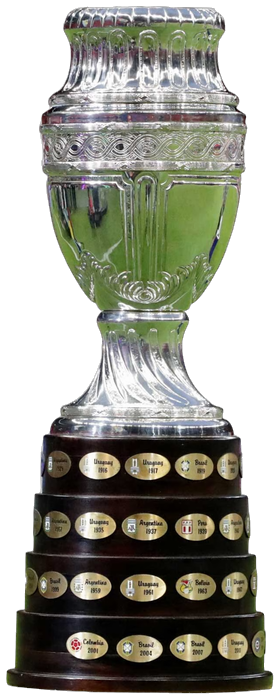
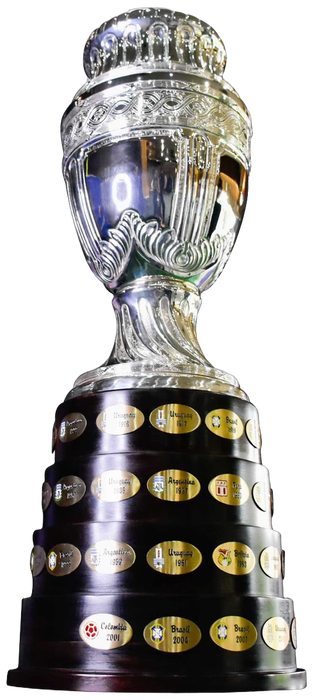
fix Copa America trophy image cache and asset.

diff --git a/index.html b/index.html
@@ -15,25 +15,25 @@
   <link rel="preconnect" href="https://fonts.googleapis.com" />
   <link rel="preconnect" href="https://fonts.gstatic.com" crossorigin />
   <link href="https://fonts.googleapis.com/css2?family=Barlow+Condensed:wght@600;700;800&family=DM+Sans:ital,opsz,wght@0,9..40,400;0,9..40,500;0,9..40,600;0,9..40,700;1,9..40,400&display=swap" rel="stylesheet" />
-  <link rel="stylesheet" href="css/style.css?v=dev-sandbox-1" />
+  <link rel="stylesheet" href="css/style.css?v=trophies-ca-2" />
 </head>
 <body>
   <div id="app"></div>
   <script src="js/world.js"></script>
   <script src="js/more_clubs.js"></script>
-  <script src="js/data.js?v=dev-sandbox-1"></script>
+  <script src="js/data.js?v=trophies-ca-2"></script>
   <script src="js/rng.js"></script>
-  <script src="js/engine.js?v=dev-sandbox-1"></script>
-  <script src="js/sim.js?v=dev-sandbox-1"></script>
-  <script src="js/career.js?v=dev-sandbox-1"></script>
-  <script src="js/card.js?v=dev-sandbox-1"></script>
-  <script src="js/ui.js?v=dev-sandbox-1"></script>
-  <script src="js/dev.js?v=dev-sandbox-1"></script>
-  <script src="js/app.js?v=dev-sandbox-1"></script>
+  <script src="js/engine.js?v=trophies-ca-2"></script>
+  <script src="js/sim.js?v=trophies-ca-2"></script>
+  <script src="js/career.js?v=trophies-ca-2"></script>
+  <script src="js/card.js?v=trophies-ca-2"></script>
+  <script src="js/ui.js?v=trophies-ca-2"></script>
+  <script src="js/dev.js?v=trophies-ca-2"></script>
+  <script src="js/app.js?v=trophies-ca-2"></script>
   <script>
     if ("serviceWorker" in navigator) {
       window.addEventListener("load", function () {
-        navigator.serviceWorker.register("./sw.js").catch(function () {});
+        navigator.serviceWorker.register("./sw.js?v=trophies-ca-2").catch(function () {});
       });
     }
   </script>

diff --git a/js/data.js b/js/data.js
@@ -102,7 +102,7 @@ var TROPHIES = {
   ucl: { name: "Champions League", img: "img/trophies/ucl.png", kind: "continental", w: 12 },
   clubworldcup: { name: "Mundial de Clubes", img: "img/trophies/clubworldcup.png", kind: "continental", w: 8 },
   worldcup: { name: "Copa do Mundo", img: "img/trophies/worldcup.png", kind: "nt", w: 16 },
-  copaamerica: { name: "Copa América", img: "img/trophies/copaamerica.png", kind: "nt", w: 9 },
+  copaamerica: { name: "Copa América", img: "img/trophies/copaamerica.png?v=ca2", kind: "nt", w: 9 },
   euro: { name: "Eurocopa", img: "img/trophies/euro.png", kind: "nt", w: 9 },
   youth: { name: "Título Sub-20", img: "img/trophies/youth.png", kind: "nt", w: 2 },
   balon: { name: "Bola de Ouro", img: "img/trophies/balon.png", kind: "indiv", w: 14 },

diff --git a/sw.js b/sw.js
@@ -1,5 +1,5 @@
 /* Lenda minimal service worker — cache app shell for offline-ish LAN/localhost use */
-const CACHE = "lenda-shell-v4-dev-sandbox-1";
+const CACHE = "lenda-shell-v5-trophies-ca-2";
 const SHELL = [
   "./",
   "./index.html",

diff --git a/tools/TROPHY_SOURCES.md b/tools/TROPHY_SOURCES.md
@@ -37,7 +37,7 @@ Corrected remapping: older SportsDB IDs mixed up FA Cup / Libertadores / etc. Ea
 | `ucl` | TheSportsDB (verified league name) |
 | `clubworldcup` | Wikimedia Commons — CWC Trophy 2025.png |
 | `worldcup` | TheSportsDB (verified league name) |
-| `copaamerica` | High-res Copa América trophy cutout → transparent PNG (alpha); sourced from pngdownload.io studio cutout of the official cup (plaques / COPA AMERICA engraving), rembg + crop to match other trophies |
+| `copaamerica` | pngdownload.io studio cutout (Oct 2025 AVIF → PNG) + rembg alpha; cache-bust `?v=ca2` — replaces prior stadium-reflection cutout that still looked like the museum photo |
 | `euro` | Wikimedia Commons — Henri Delaunay / Euro trophy |
 | `youth` | Stylized distinct generic cup (no suitable Commons photo found); style=1 |
 | `balon` | Generated Ballon d'Or-style golden ball (existing asset was a Zidane poster) |
